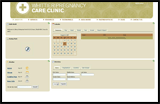
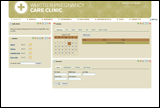
WPCC 1.0 4/9/07
git-svn-id: svn://svn.liferay.com/repos/public/plugins/trunk@8379 05bdf26c-840f-0410-9ced-eb539d925f36

diff --git a/themes/wpcc-theme-theme/docroot/_diffs/css/custom.css b/themes/wpcc-theme-theme/docroot/_diffs/css/custom.css
@@ -14,7 +14,7 @@ body {
 
 #wrapper {
 	margin: 0 auto;
-	width: 94%;
+	width: 1142px;
 }
 
 /* Navigation */
@@ -24,7 +24,7 @@ body {
 	min-height: 2.2em;
 	overflow: hidden;
 	padding-right: 1em;
-	width: 93%;
+	width: 1142px;
 }
 
 #navigation ul {
@@ -171,9 +171,9 @@ body {
 /* Portlets */
 
 .portlet-icons {
-	background: #E3E0C5 url(../images/common/top_right.jpg) no-repeat top right;
-	margin-top: 0px;
-	margin-right: 0px;
+	background: #E3E0C5;
+	margin-top: 3px;
+	margin-right: 3px;
 	position: absolute;
 	top: 0px;
 	right: 0px;
@@ -191,7 +191,7 @@ body {
 }
 
 .portlet-topper {
-	background: #E3E0C5;
+	background: #E3E0C5 url(../images/common/top_right.jpg) no-repeat top right;
 	margin-top: 0px;
 	position: relative;
 }
@@ -241,6 +241,14 @@ body {
 	border-bottom: 1px solid #333;
 	margin: 0 0 1.5em 0;
 	padding: 0 0 2.6em 1em;
+}
+
+.js #add-page {
+	position: absolute;
+	right: 0;
+	top: 110pt;
+	font-weight: bold;
+	padding-top: 0.3em;
 }
 
 
